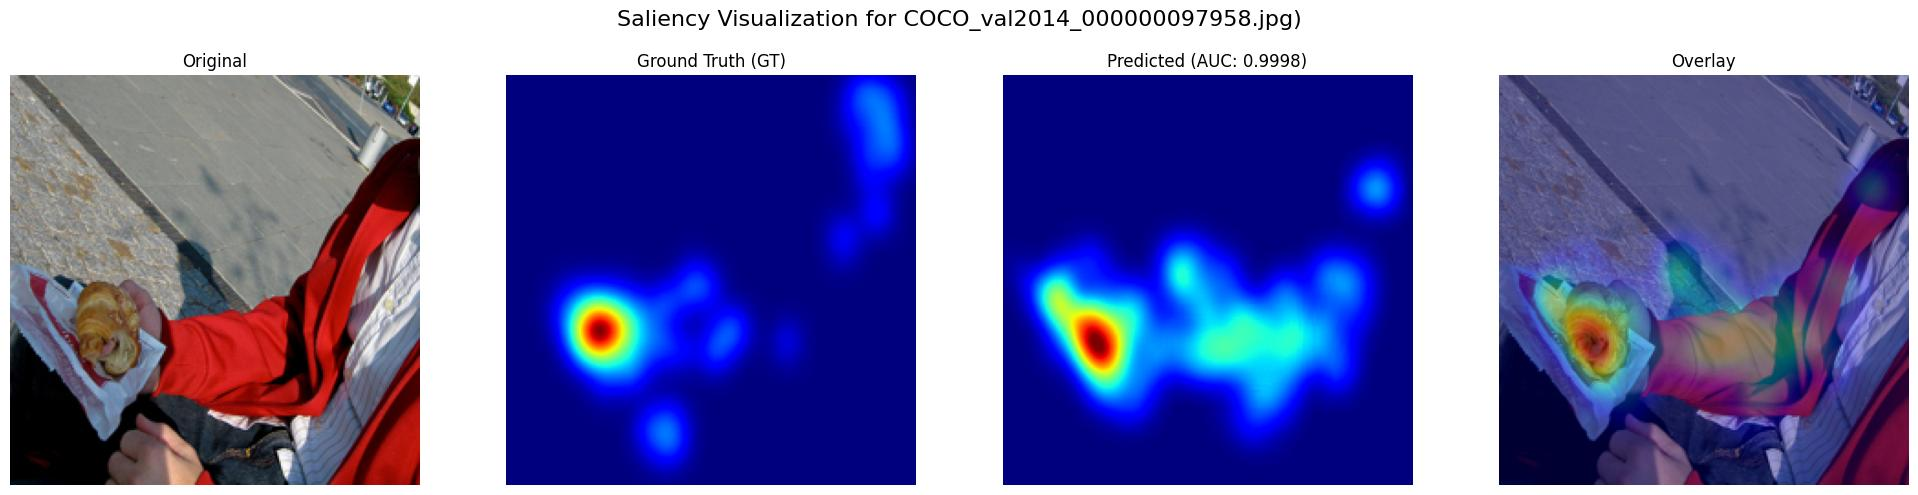
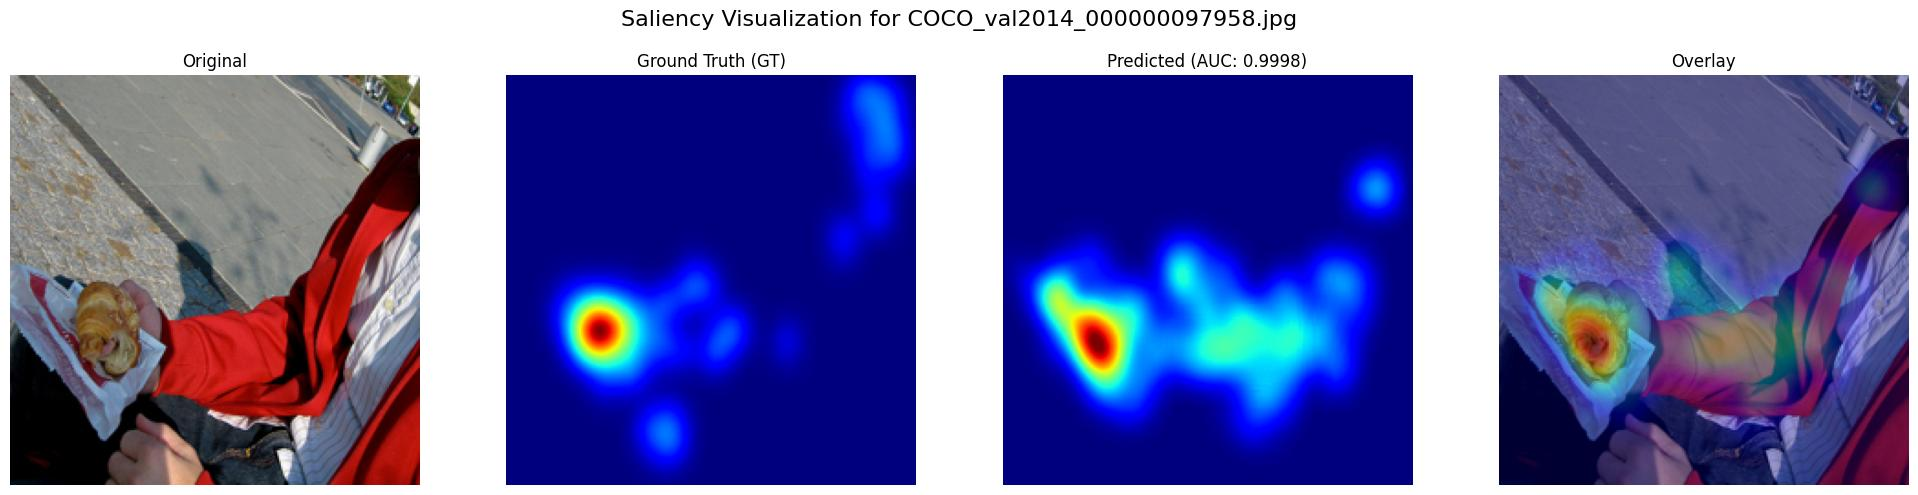
add Config dataclass, replace os with pathlib, improve plot generation

Changed region(s): [[0.3076, 0.0, 0.6767, 0.0606]]

diff --git a/src/visualize_best_worst.py b/src/visualize_best_worst.py
@@ -1,0 +1,66 @@
+import torch
+import pandas as pd
+from pathlib import Path
+
+from .dataset import SaliconDataset
+from .model import Generator
+from .utils import prepare_tensors_for_visualization
+from .config import Config
+from .visualize_image import visualize_image
+
+
+def visualize_best_worst(cfg: Config, device: torch.device) -> None:
+    """
+    Visualize the top and bottom predicted saliency maps based on AUC.
+
+    Parameters
+    ----------
+    cfg : Config
+        Application configuration containing meta, model, and visualization settings.
+    device : torch.device
+        Torch device to use for model inference.
+
+    Returns
+    -------
+    None
+        Saves visualizations of top/bottom images to the results directory.
+    """
+
+    meta = cfg.meta
+    model = cfg.model
+
+    data_dir = Path(meta.data_dir)
+    results_dir = Path(meta.results_dir)
+    checkpoint_path = Path(meta.checkpoint_dir) / "best_model.pth"
+
+    best_dir = results_dir / "visuals_best"
+    worst_dir = results_dir / "visuals_worst"
+    best_dir.mkdir(exist_ok=True)
+    worst_dir.mkdir(exist_ok=True)
+
+    gen = Generator(in_channels=3, out_channels=1).to(device)
+    checkpoint = torch.load(checkpoint_path, map_location=device)
+    gen.load_state_dict(checkpoint["gen_state_dict"])
+    gen.eval()
+
+    dataset = SaliconDataset(
+        split="val", data_dir=data_dir, img_size=model.img_size, augment=False
+    )
+    df = pd.read_csv(results_dir / "results_val_full.csv")
+
+    best_5 = df.sort_values("AUC", ascending=False).head(5)
+    worst_5 = df.sort_values("AUC", ascending=True).head(5)
+
+    print("\nProcessing BEST images...")
+    for _, row in best_5.iterrows():
+        idx = [p.name for p in dataset.images].index(Path(row["image"]).name)
+        dataset_item = dataset[idx]
+        image_np, gt_map, saliency, img_name = prepare_tensors_for_visualization(dataset_item, gen, device)
+        visualize_image(image_np, gt_map, saliency, img_name, best_dir, prefix="best", auc_val=row["AUC"])
+
+    print("\nProcessing WORST images...")
+    for _, row in worst_5.iterrows():
+        idx = [p.name for p in dataset.images].index(Path(row["image"]).name)
+        dataset_item = dataset[idx]
+        image_np, gt_map, saliency, img_name = prepare_tensors_for_visualization(dataset_item, gen, device)
+        visualize_image(image_np, gt_map, saliency, img_name, worst_dir, prefix="worst", auc_val=row["AUC"])

diff --git a/src/visualize_single.py b/src/visualize_single.py
@@ -1,0 +1,59 @@
+import torch
+from pathlib import Path
+
+from .dataset import SaliconDataset
+from .model import Generator
+from .utils import prepare_tensors_for_visualization
+from .config import Config
+from .visualize_image import visualize_image
+
+
+def run_inference_visualize(
+    cfg: Config,
+    device: torch.device,
+) -> None:
+    """
+    Run inference on a single image and visualize the original image,
+    ground truth saliency map, predicted saliency map, and overlay.
+
+    Parameters
+    ----------
+    cfg : Config
+        Application configuration containing meta, model, and visualization settings.
+    device : torch.device
+        Device to run the model on.
+
+    Returns
+    -------
+    None
+        Displays matplotlib plots of the original image, GT, prediction, and overlay.
+    """
+    meta = cfg.meta
+    model = cfg.model
+    vis = cfg.vis
+
+    data_dir = meta.data_dir
+    results_dir = Path(meta.results_dir)
+    checkpoint_path = Path(meta.checkpoint_dir) / "best_model.pth"
+
+    split = getattr(meta, "split", "val")
+    img_size: tuple[int, int] = model.img_size
+    idx: int = vis.visualize_single
+
+    gen = Generator(in_channels=3, out_channels=1).to(device)
+    checkpoint = torch.load(checkpoint_path, map_location=device)
+    gen.load_state_dict(checkpoint["gen_state_dict"])
+    gen.eval()
+
+    dataset = SaliconDataset(
+        split=split,
+        data_dir=Path(data_dir),
+        img_size=img_size,
+        augment=False,
+    )
+
+    dataset_item = dataset[idx]
+    image_np, gt_map, saliency, img_name = prepare_tensors_for_visualization(dataset_item, gen, device)
+
+    save_folder = results_dir / "visuals_single"
+    visualize_image(image_np, gt_map, saliency, img_name, save_folder, prefix="single")
